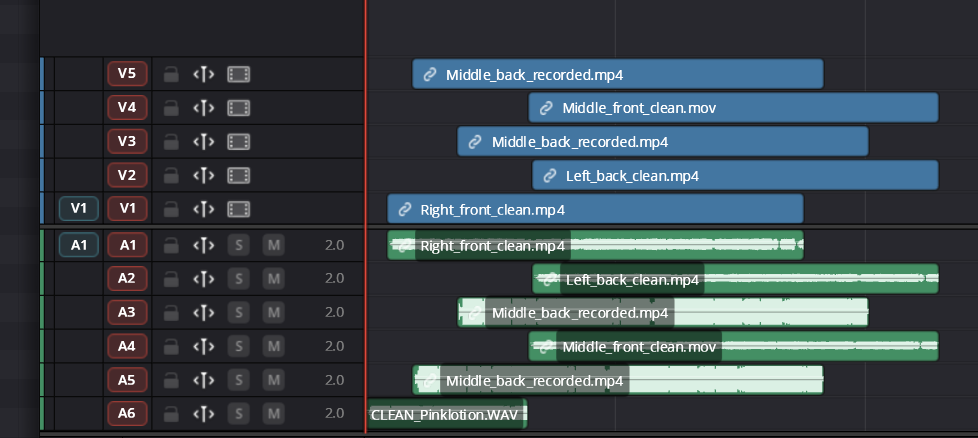
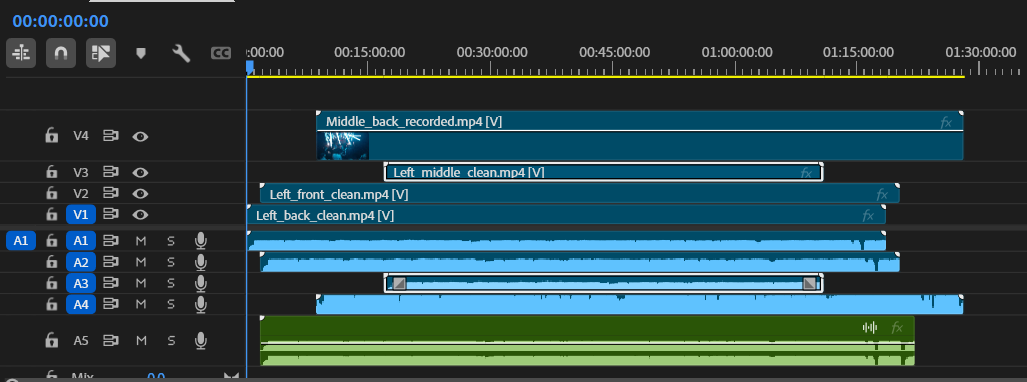
final pre launch design changes

diff --git a/src/components/StudioTutorialContent.jsx b/src/components/StudioTutorialContent.jsx
@@ -102,9 +102,9 @@ function StudioTutorialContent() {
             <p className="t-body" style={{marginBottom: 10}}>
               You can load your timeline through a direct editor connection or via exported XML.
             </p>
-            <p className="t-body" style={{marginBottom: 6}}><strong>Option A: direct connection</strong></p>
+            <p className="t-body" style={{marginBottom: 6}}><strong>Option A: Resolve Studio Connection</strong></p>
             <ol style={{margin: 0, paddingLeft: 18, display: 'grid', gap: 6}}>
-              <li className="t-body">Open your prepared timeline in your editor.</li>
+              <li className="t-body">Open your prepared timeline in DaVinci Resolve Studio.</li>
               <li className="t-body">In Studio, go to the direct connection tab.</li>
               <li className="t-body">Click <strong>Connect</strong>.</li>
             </ol>
@@ -151,7 +151,7 @@ function StudioTutorialContent() {
               Preparation deletes video-audio files after sync and cuts the timeline to the recorded audio range.
             </p>
             <p className="t-body">
-              Enable <strong>Don't Prepare</strong> if you only want synchronization or prefer manual timeline prep.
+              Enable Don't Prepare if you only want to synchronise your Footage or prefer prepping your timeline manually.
             </p>
           </div>
         ) : null}
@@ -165,7 +165,7 @@ function StudioTutorialContent() {
           aria-expanded={openStudioGuideStep === 4}
           aria-controls="studio-guide-step-4"
         >
-          <h3 className="t-h3">4. Choose the Synchronization Method</h3>
+          <h3 className="t-h3">3.1 Choose the Synchronization Method</h3>
           <span style={{fontSize: 24, lineHeight: 1, color: 'var(--amber)'}}>{openStudioGuideStep === 4 ? '−' : '+'}</span>
         </button>
         {openStudioGuideStep === 4 ? (
@@ -195,7 +195,7 @@ function StudioTutorialContent() {
           aria-expanded={openStudioGuideStep === 5}
           aria-controls="studio-guide-step-5"
         >
-          <h3 className="t-h3">5. Review the Synchronization Results</h3>
+          <h3 className="t-h3">3.2 Review the Synchronization Results</h3>
           <span style={{fontSize: 24, lineHeight: 1, color: 'var(--amber)'}}>{openStudioGuideStep === 5 ? '−' : '+'}</span>
         </button>
         {openStudioGuideStep === 5 ? (
@@ -228,7 +228,7 @@ function StudioTutorialContent() {
           aria-expanded={openStudioGuideStep === 6}
           aria-controls="studio-guide-step-6"
         >
-          <h3 className="t-h3">6. Configure the Audio</h3>
+          <h3 className="t-h3">4. Configure the Audio</h3>
           <span style={{fontSize: 24, lineHeight: 1, color: 'var(--amber)'}}>{openStudioGuideStep === 6 ? '−' : '+'}</span>
         </button>
         {openStudioGuideStep === 6 ? (
@@ -258,7 +258,7 @@ function StudioTutorialContent() {
           aria-expanded={openStudioGuideStep === 7}
           aria-controls="studio-guide-step-7"
         >
-          <h3 className="t-h3">7. Set Up Each Camera</h3>
+          <h3 className="t-h3">5. Set Up Each Camera</h3>
           <span style={{fontSize: 24, lineHeight: 1, color: 'var(--amber)'}}>{openStudioGuideStep === 7 ? '−' : '+'}</span>
         </button>
         {openStudioGuideStep === 7 ? (
@@ -299,7 +299,7 @@ function StudioTutorialContent() {
           aria-expanded={openStudioGuideStep === 8}
           aria-controls="studio-guide-step-8"
         >
-          <h3 className="t-h3">8. Shape the Automatic Cut</h3>
+          <h3 className="t-h3">6. Shape the Automatic Cut</h3>
           <span style={{fontSize: 24, lineHeight: 1, color: 'var(--amber)'}}>{openStudioGuideStep === 8 ? '−' : '+'}</span>
         </button>
         {openStudioGuideStep === 8 ? (
@@ -338,7 +338,7 @@ function StudioTutorialContent() {
           aria-expanded={openStudioGuideStep === 9}
           aria-controls="studio-guide-step-9"
         >
-          <h3 className="t-h3">9. Export the Result</h3>
+          <h3 className="t-h3">7. Export the Result</h3>
           <span style={{fontSize: 24, lineHeight: 1, color: 'var(--amber)'}}>{openStudioGuideStep === 9 ? '−' : '+'}</span>
         </button>
         {openStudioGuideStep === 9 ? (
@@ -368,7 +368,7 @@ function StudioTutorialContent() {
           aria-expanded={openStudioGuideStep === 10}
           aria-controls="studio-guide-step-10"
         >
-          <h3 className="t-h3">10. Adjust Cameras for Vertical Content</h3>
+          <h3 className="t-h3">8. Adjust Cameras for Vertical Content</h3>
           <span style={{fontSize: 24, lineHeight: 1, color: 'var(--amber)'}}>{openStudioGuideStep === 10 ? '−' : '+'}</span>
         </button>
         {openStudioGuideStep === 10 ? (
@@ -379,7 +379,7 @@ function StudioTutorialContent() {
               style={{width: '100%', borderRadius: 12, border: '1px solid var(--line)', marginBottom: 16}}
             />
             <p className="t-body">
-              Use <strong>Adjust Offset for Vertical</strong> to reposition cameras quickly so shots fit a vertical frame better.
+              Use Adjust Offset for Vertical to reposition cameras quickly so shots fit a vertical frame better. We are not able to create Vertical Timelines in Resolve Copy everything in the Timeline we gave out and paste it into a new vertical timeline to get Vertical results.
             </p>
           </div>
         ) : null}
@@ -393,7 +393,7 @@ function StudioTutorialContent() {
           aria-expanded={openStudioGuideStep === 11}
           aria-controls="studio-guide-step-11"
         >
-          <h3 className="t-h3">11. Save and Reuse Presets</h3>
+          <h3 className="t-h3">9. Save and Reuse Presets</h3>
           <span style={{fontSize: 24, lineHeight: 1, color: 'var(--amber)'}}>{openStudioGuideStep === 11 ? '−' : '+'}</span>
         </button>
         {openStudioGuideStep === 11 ? (
@@ -422,7 +422,7 @@ function StudioTutorialContent() {
           aria-expanded={openStudioGuideStep === 12}
           aria-controls="studio-guide-step-12"
         >
-          <h3 className="t-h3">12. Troubleshooting: Problems Connecting to Resolve</h3>
+          <h3 className="t-h3">10. Troubleshooting: Problems Connecting to Resolve</h3>
           <span style={{fontSize: 24, lineHeight: 1, color: 'var(--amber)'}}>{openStudioGuideStep === 12 ? '−' : '+'}</span>
         </button>
         {openStudioGuideStep === 12 ? (

diff --git a/src/pages/CreatorPage.jsx b/src/pages/CreatorPage.jsx
@@ -149,7 +149,7 @@ function CreatorPage() {
                   <svg width="16" height="16" viewBox="0 0 24 24" fill="none" stroke="var(--amber)" strokeWidth="3">
                     <polyline points="20 6 9 17 4 12" />
                   </svg>
-                  <span className="t-body">DaVinci Resolve integration</span>
+                  <span className="t-body">DaVinci resolve Studio integration</span>
                 </div>
                 <div style={{display: 'flex', alignItems: 'center', gap: 10}}>
                   <svg width="16" height="16" viewBox="0 0 24 24" fill="none" stroke="var(--amber)" strokeWidth="3">
@@ -163,27 +163,22 @@ function CreatorPage() {
                   </svg>
                   <span className="t-body">Save or share cut Presets</span>
                 </div>
+                <div style={{display: 'flex', alignItems: 'center', gap: 10}}>
+                  <svg width="16" height="16" viewBox="0 0 24 24" fill="none" stroke="var(--amber)" strokeWidth="3">
+                    <polyline points="20 6 9 17 4 12" />
+                  </svg>
+                  <span className="t-body">full Control Over all Settings</span>
+                </div>
+                <div style={{display: 'flex', alignItems: 'center', gap: 10}}>
+                  <svg width="16" height="16" viewBox="0 0 24 24" fill="none" stroke="var(--amber)" strokeWidth="3">
+                    <polyline points="20 6 9 17 4 12" />
+                  </svg>
+                  <span className="t-body">Integrated Fusion Effects</span>
+                </div>
               </div>
             </div>
           </Reveal>
         </div>
-        {/* Tutorial Video Section */}
-        <Reveal as="section" className="container" style={{marginTop: 40, paddingTop: 16, paddingBottom: 40}}>
-          <div style={{textAlign: 'center', marginBottom: 32}}>
-            <h2 className="t-h2">Studio Quick Start</h2>
-            <p className="t-body-lg" style={{maxWidth: 640, margin: '20px auto 0'}}>
-              How to use Studio to create a fully automated cut with custom settings and effects
-            </p>
-          </div>
-          <div style={{maxWidth: 960, margin: '0 auto'}}>
-            <YouTubeEmbed
-              url="https://youtu.be/duT_VXu5W0Y?si=NSc5fd21Ew415gLM"
-              showControls={true}
-              autoPlay={false}
-              title="Q·Cut Studio Tutorial"
-            />
-          </div>
-        </Reveal>
         <div style={{ marginTop: 24, textAlign: 'center' }}>
           <h2 className="t-h2" style={{ marginBottom: 16 }}>
             Need the Full Studio Walkthrough?
@@ -235,22 +230,6 @@ function CreatorPage() {
             </div>
           </Reveal>
         </div>
-        <Reveal as="section" className="container" style={{ marginTop: 40, paddingTop: 16, paddingBottom: 40 }}>
-        <div style={{ textAlign: 'center', marginBottom: 32 }}>
-          <h2 className="t-h2">Creator Quick Start</h2>
-          <p className="t-body-lg" style={{ maxWidth: 640, margin: '20px auto 0' }}>
-            How to use Creator to create a fully automated cut with custom settings and effects
-          </p>
-        </div>
-        <div style={{ maxWidth: 960, margin: '0 auto' }}>
-          <YouTubeEmbed
-            url="https://youtu.be/nZ1dXmnT3HA?si=BCEzHNKIZOVHH45I"
-            showControls={true}
-            autoPlay={false}
-            title="Q·Cut Creator Tutorial"
-          />
-        </div>
-      </Reveal>
         <div style={{ marginTop: 24, textAlign: 'center' }}>
           <h2 className="t-h2" style={{ marginBottom: 16 }}>
             Need a Full Walkthrough?
@@ -448,7 +427,7 @@ function CreatorPage() {
                 <svg width="16" height="16" viewBox="0 0 24 24" fill="none" stroke="currentColor" strokeWidth="3">
                   <polyline points="20 6 9 17 4 12" />
                 </svg>
-                <span>XML and DaVinci Resolve workflow</span>
+                <span>DaVinci Resolve Studio & XML Workflow</span>
               </li>
               <li>
                 <svg width="16" height="16" viewBox="0 0 24 24" fill="none" stroke="currentColor" strokeWidth="3">
@@ -467,12 +446,6 @@ function CreatorPage() {
                   <polyline points="20 6 9 17 4 12" />
                 </svg>
                 <span>Social Media Clips</span>
-              </li>
-              <li>
-                <svg width="16" height="16" viewBox="0 0 24 24" fill="none" stroke="currentColor" strokeWidth="3">
-                  <polyline points="20 6 9 17 4 12" />
-                </svg>
-                <span>Priority render</span>
               </li>
               <li>
                 <svg width="16" height="16" viewBox="0 0 24 24" fill="none" stroke="currentColor" strokeWidth="3">

diff --git a/src/components/CreatorTutorialContent.jsx b/src/components/CreatorTutorialContent.jsx
@@ -251,7 +251,7 @@ function CreatorTutorialContent() {
               aria-expanded={openCreatorGuideStep === 7}
               aria-controls="creator-guide-step-7"
             >
-              <h3 className="t-h3">7. Zoom Timing</h3>
+              <h3 className="t-h3">6.1 Zoom Timing</h3>
               <span style={{ fontSize: 24, lineHeight: 1, color: 'var(--amber)' }}>{openCreatorGuideStep === 7 ? '−' : '+'}</span>
             </button>
             {openCreatorGuideStep === 7 ? (
@@ -276,7 +276,7 @@ function CreatorTutorialContent() {
               aria-expanded={openCreatorGuideStep === 8}
               aria-controls="creator-guide-step-8"
             >
-              <h3 className="t-h3">8. Zoom Settings per Camera</h3>
+              <h3 className="t-h3">6.2 Zoom Settings per Camera</h3>
               <span style={{ fontSize: 24, lineHeight: 1, color: 'var(--amber)' }}>{openCreatorGuideStep === 8 ? '−' : '+'}</span>
             </button>
             {openCreatorGuideStep === 8 ? (
@@ -304,7 +304,7 @@ function CreatorTutorialContent() {
               aria-expanded={openCreatorGuideStep === 9}
               aria-controls="creator-guide-step-9"
             >
-              <h3 className="t-h3">9. Intensity</h3>
+              <h3 className="t-h3">7. Intensity</h3>
               <span style={{ fontSize: 24, lineHeight: 1, color: 'var(--amber)' }}>{openCreatorGuideStep === 9 ? '−' : '+'}</span>
             </button>
             {openCreatorGuideStep === 9 ? (

diff --git a/src/pages/PricingPage.jsx b/src/pages/PricingPage.jsx
@@ -44,7 +44,6 @@ function PricingPage() {
       </section>
 
       {/* DJ Plans Section */}
-      {/* DJ Plans Section */}
       <section id="dj" className="container section">
         <div style={{textAlign: 'center', marginBottom: 48}}>
           <span className="t-label">For DJs</span>
@@ -210,7 +209,7 @@ function PricingPage() {
                 <svg width="16" height="16" viewBox="0 0 24 24" fill="none" stroke="currentColor" strokeWidth="3">
                   <polyline points="20 6 9 17 4 12" />
                 </svg>
-                <span>XML and DaVinci Resolve workflow</span>
+                <span>DaVinci Resolve Studio & XML Workflow</span>
               </li>
               <li>
                 <svg width="16" height="16" viewBox="0 0 24 24" fill="none" stroke="currentColor" strokeWidth="3">
@@ -229,12 +228,6 @@ function PricingPage() {
                   <polyline points="20 6 9 17 4 12" />
                 </svg>
                 <span>Social Media Clips</span>
-              </li>
-              <li>
-                <svg width="16" height="16" viewBox="0 0 24 24" fill="none" stroke="currentColor" strokeWidth="3">
-                  <polyline points="20 6 9 17 4 12" />
-                </svg>
-                <span>Priority render</span>
               </li>
               <li>
                 <svg width="16" height="16" viewBox="0 0 24 24" fill="none" stroke="currentColor" strokeWidth="3">

diff --git a/src/pages/HelpPage.jsx b/src/pages/HelpPage.jsx
@@ -127,7 +127,7 @@ function HelpPage() {
           Our support team typically responds within 24 hours.
         </p>
         <div style={{display: 'flex', gap: 16, justifyContent: 'center', flexWrap: 'wrap'}}>
-          <a href="mailto:support@qcut.app" className="btn btn-amber">
+          <a href="mailto:info@qcut.at" className="btn btn-amber">
             Email support
           </a>
           <Link to="/pricing" className="btn btn-ghost">

diff --git a/src/pages/SuccessPage.jsx b/src/pages/SuccessPage.jsx
@@ -33,8 +33,8 @@ function SuccessPage() {
           
           <p className="t-body" style={{marginBottom: 40, color: 'var(--text-3)'}}>
             Having trouble? Contact us at{' '}
-            <a href="mailto:support@qcut.app" style={{color: 'var(--amber)'}}>
-              support@qcut.app
+            <a href="mailto:info@qcut.at" style={{color: 'var(--amber)'}}>
+              info@qcut.at
             </a>
           </p>
 

diff --git a/src/pages/CreatorTutorialPage.jsx b/src/pages/CreatorTutorialPage.jsx
@@ -14,7 +14,6 @@ function CreatorTutorialPage() {
         <p className="t-body-lg" style={{ maxWidth: 640, marginTop: 16 }}>
           Full step-by-step guide for Q-Cut Creator from timeline prep to final export settings.
         </p>
-        <BeatGrid />
         <div style={{ marginTop: 24, display: 'flex', gap: 12, flexWrap: 'wrap' }}>
           <Link to="/creator" className="btn btn-ghost">
             Back to Overview

diff --git a/src/pages/StudioTutorialPage.jsx b/src/pages/StudioTutorialPage.jsx
@@ -14,7 +14,6 @@ function StudioTutorialPage() {
         <p className="t-body-lg" style={{ maxWidth: 640, marginTop: 16 }}>
           Full step-by-step guide for Q-Cut Studio from timeline prep to final export settings.
         </p>
-        <BeatGrid />
         <div style={{ marginTop: 24, display: 'flex', gap: 12, flexWrap: 'wrap' }}>
           <Link to="/creator" className="btn btn-ghost">
             Back to Overview

diff --git a/src/components/SiteFooter.jsx b/src/components/SiteFooter.jsx
@@ -22,7 +22,7 @@ function SiteFooter() {
                   onMouseLeave={(e) => e.target.style.color = ""}>
               Privacy
             </Link>
-            <a href="mailto:support@qcut.app" 
+            <a href="mailto:info@qcut.at" 
                className="t-label" 
                style={{transition: "color .2s ease"}}
                onMouseEnter={(e) => e.target.style.color = "var(--amber)"}

diff --git a/src/App.jsx b/src/App.jsx
@@ -122,7 +122,7 @@ function Footer() {
             <h4>Support</h4>
             <ul>
               <li><Link to="/help">Help Center</Link></li>
-              <li><a href="mailto:support@qcut.app">Contact</a></li>
+              <li><a href="mailto:info@qcut.app">Contact</a></li>
             </ul>
           </div>
           <div className="footer-col">
